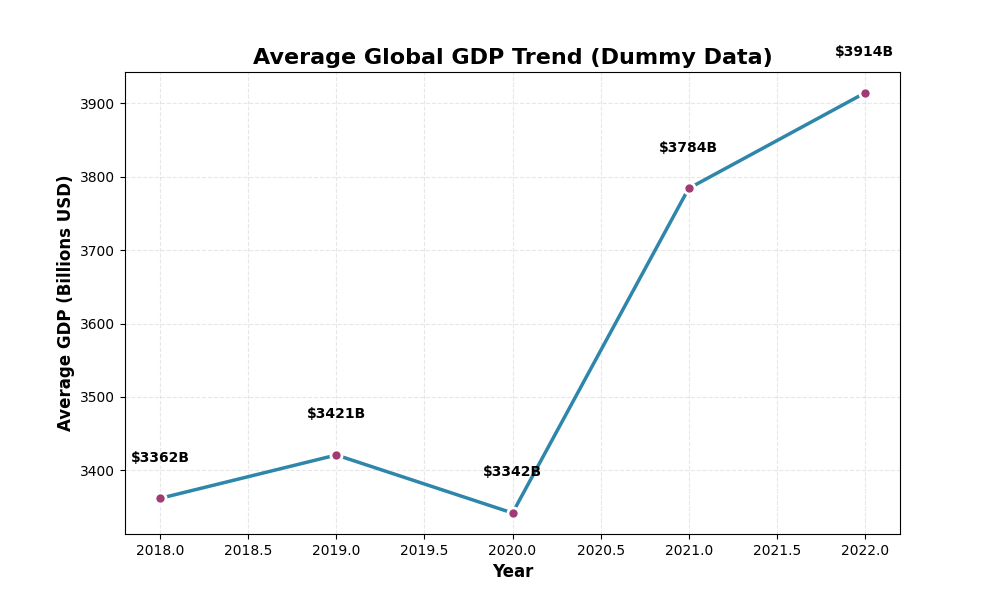
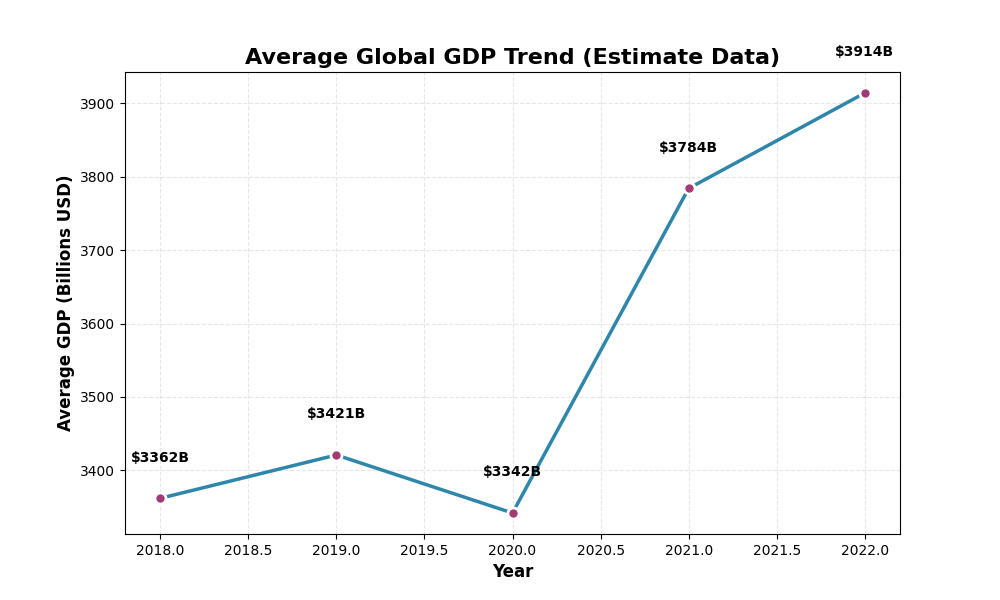
Pie and Line Chart Created

Changed region(s): [[0.248, 0.06, 0.775, 0.12]]

diff --git a/visualization.py b/visualization.py
@@ -37,3 +37,42 @@ print("Pie chart saved as: test_pie_chart.png")
 plt.show(block=False)  # Display Chart
 plt.pause(6)  # Timer in Seconds
 
+
+# 2: CREATE A LINE GRAPH
+
+# Estimate data - GDP over years (in billions)
+years = [2018, 2019, 2020, 2021, 2022]
+avg_gdp = [3362, 3421, 3342, 3784, 3914]
+
+# Figuring
+plt.figure(figsize=(10, 6))
+
+# Making line graph
+plt.plot(years, avg_gdp, 
+         marker='o',              
+         linewidth=2.5,           
+         markersize=8,           
+         color='#2E86AB',        
+         markerfacecolor='#A23B72',
+         markeredgewidth=2,
+         markeredgecolor='white')
+
+# Add value labeling
+for year, gdp in zip(years, avg_gdp):
+    plt.text(year, gdp + 50, f'${gdp}B', ha='center', fontsize=10, fontweight='bold')
+
+# Formatting
+plt.title('Average Global GDP Trend (Estimate Data)', fontsize=16, fontweight='bold')
+plt.xlabel('Year', fontsize=12, fontweight='bold')
+plt.ylabel('Average GDP (Billions USD)', fontsize=12, fontweight='bold')
+plt.grid(True, alpha=0.3, linestyle='--')
+
+# Saving
+plt.savefig('test_line_graph.png', dpi=100)
+print("Line graph saved as: test_line_graph.png")
+
+plt.show(block=False)  # Display Chart
+plt.pause(6)  # Timer in Seconds
+
+print()
+print("PIE and LINE Chart Created")
